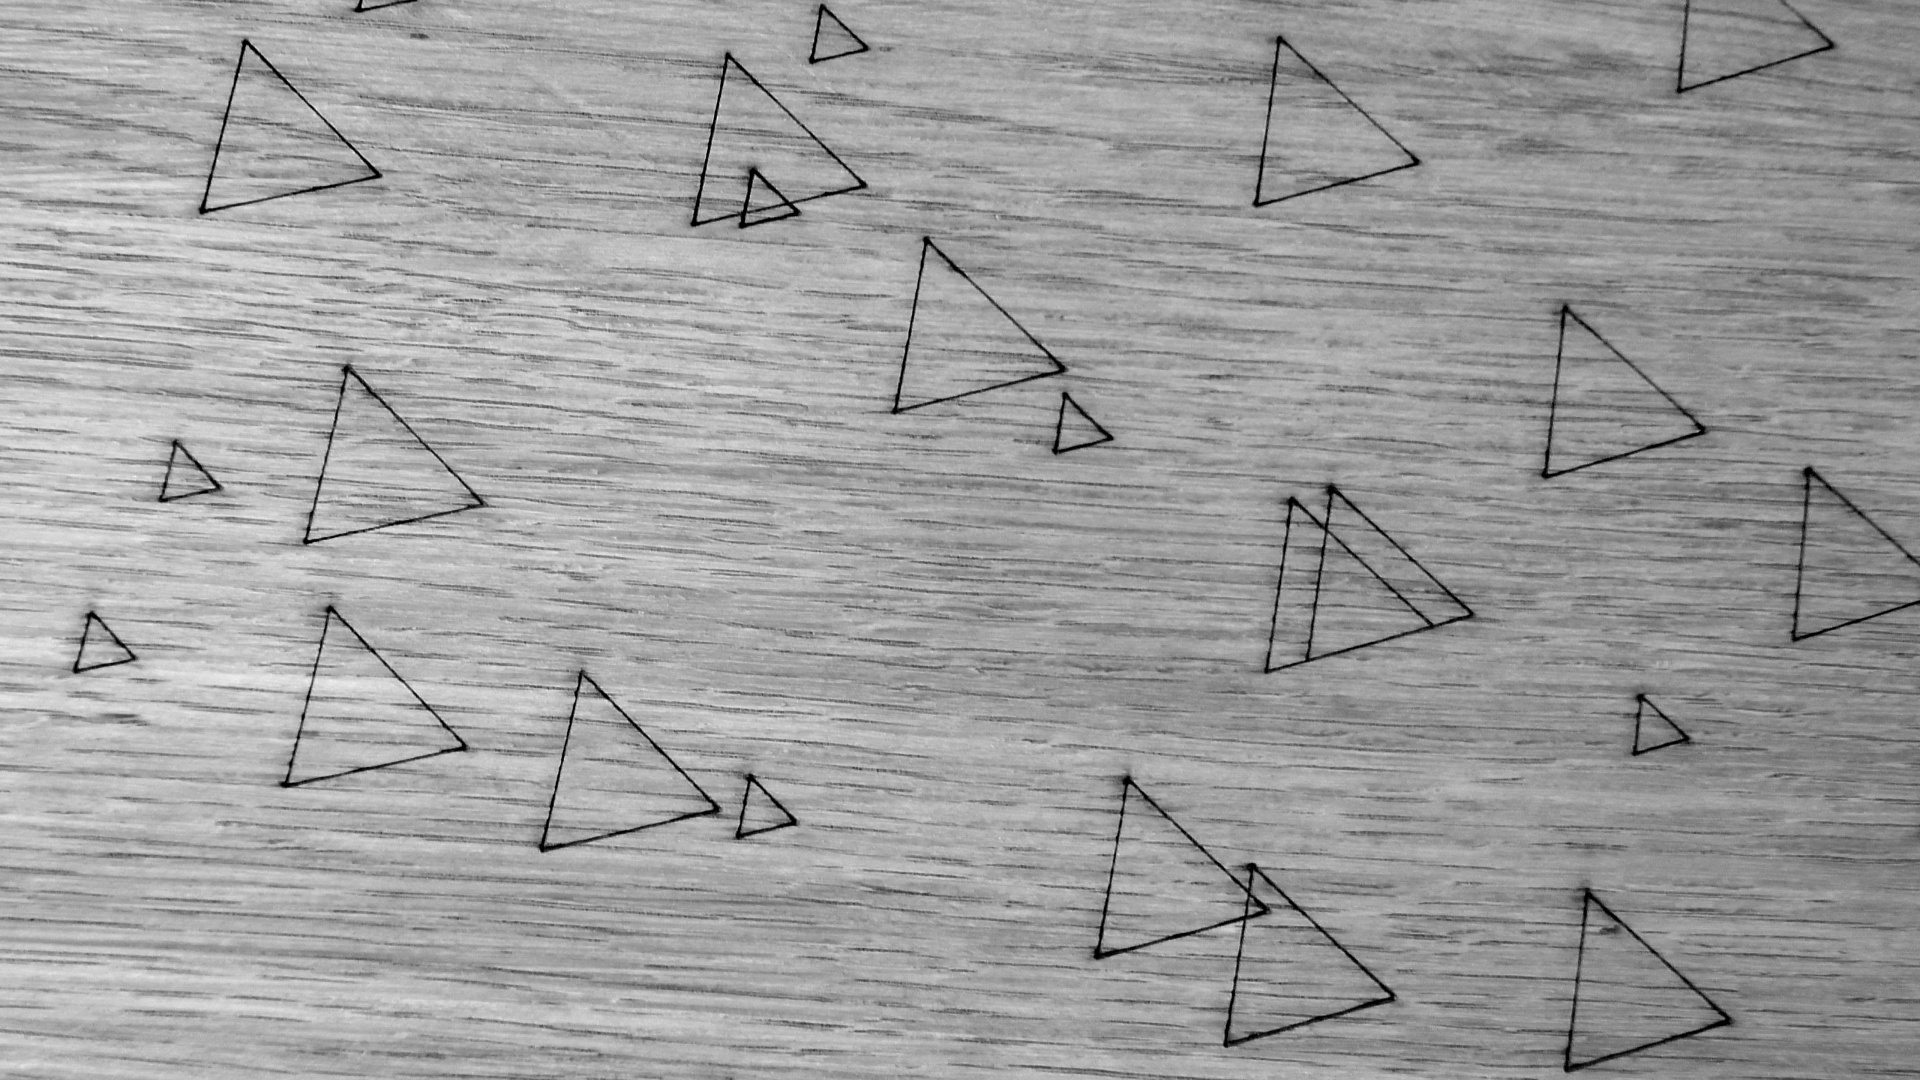
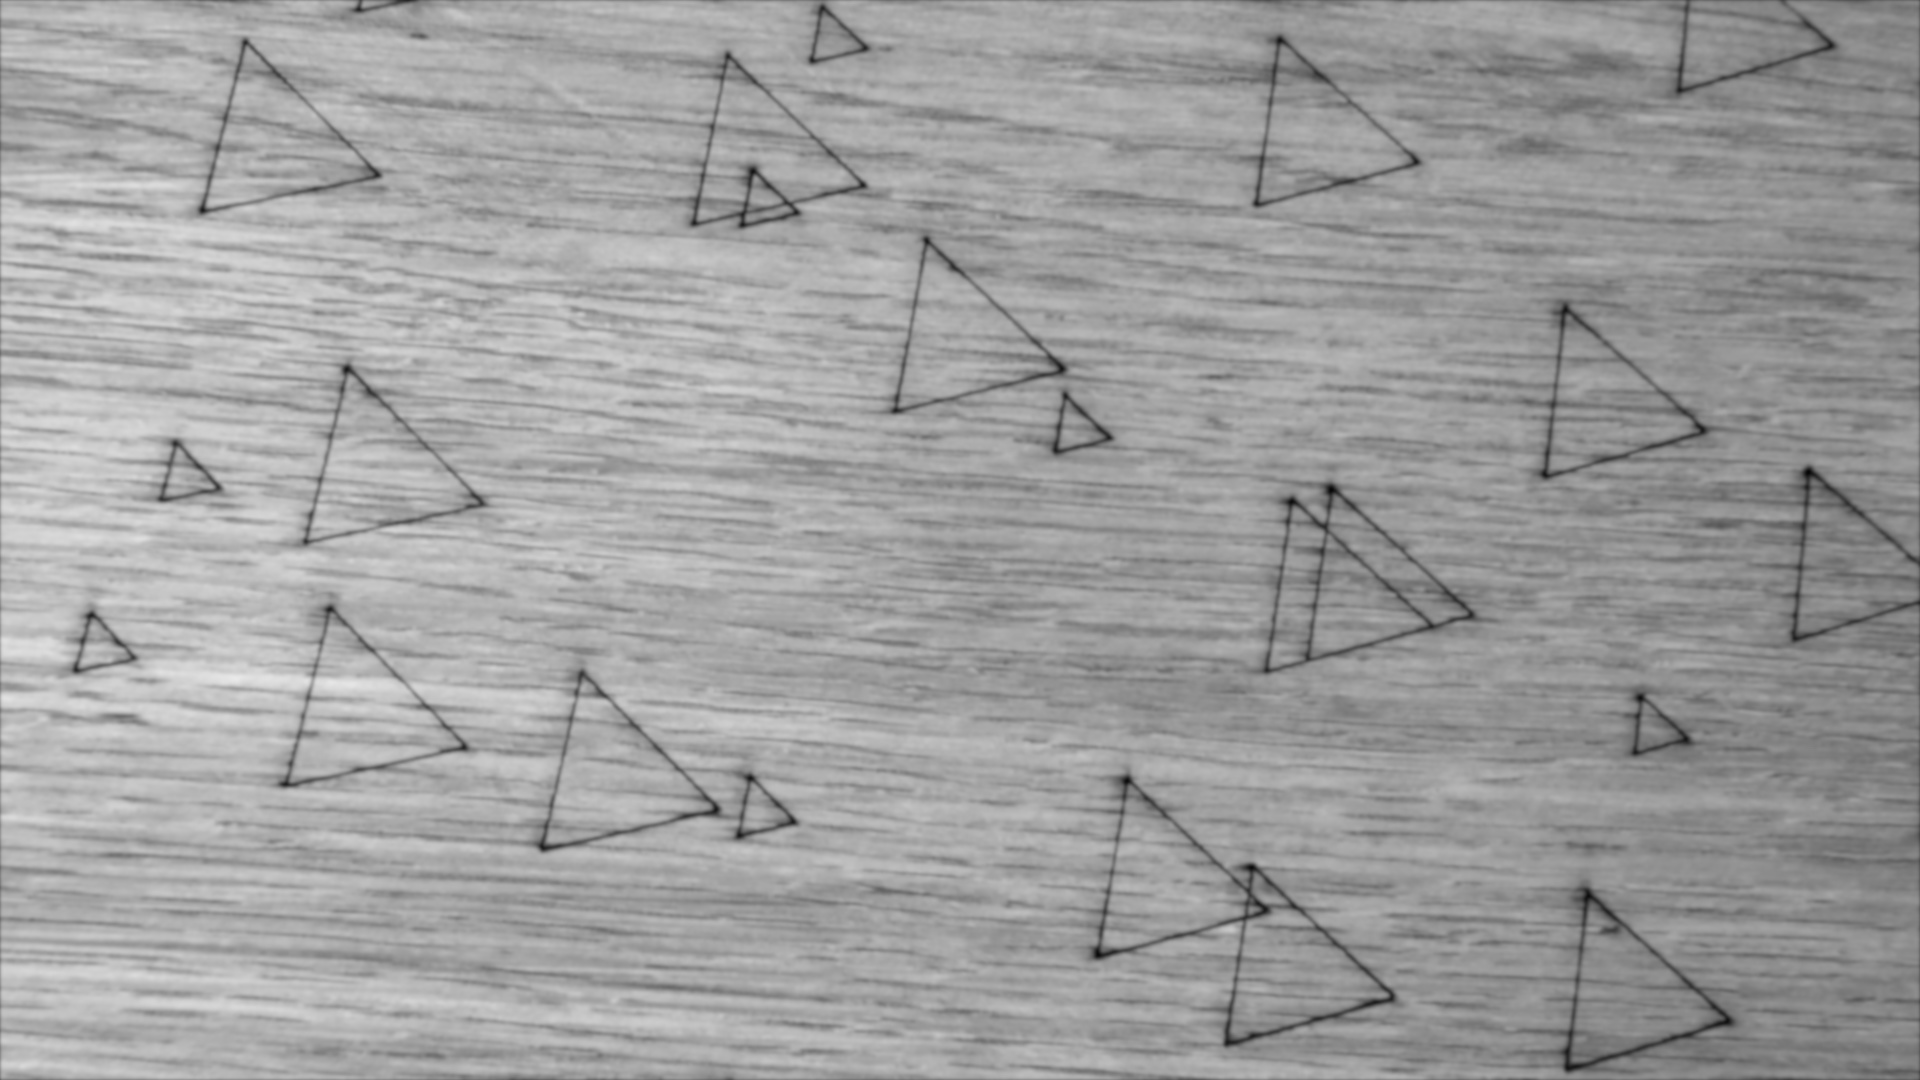
changed focus on background picture.

diff --git a/index.html b/index.html
@@ -73,7 +73,10 @@ $ git checkout gh-pages
 </p>
 
 <p>
-  I’m particularly interested in metric measure spaces that admit generalizations of lower curvature bounds (Sectional and Ricci). These spaces appear naturally as Gromov-Hausdorff limits of manifolds. My research focuses on their isometry groups and the effect of isometric Lie group actions on these spaces.  A more detailed research statement is available <a href="">here.</a> 
+  I’m particularly interested in metric measure spaces that admit generalizations of lower curvature bounds (Sectional and Ricci). These spaces appear naturally as Gromov-Hausdorff limits of manifolds. My research focuses on their isometry groups and the effect of isometric Lie group actions on these spaces.  
+</p>
+<p>
+  A more detailed research statement is available <a href="">here.</a> 
 </p>
   </div>
 
